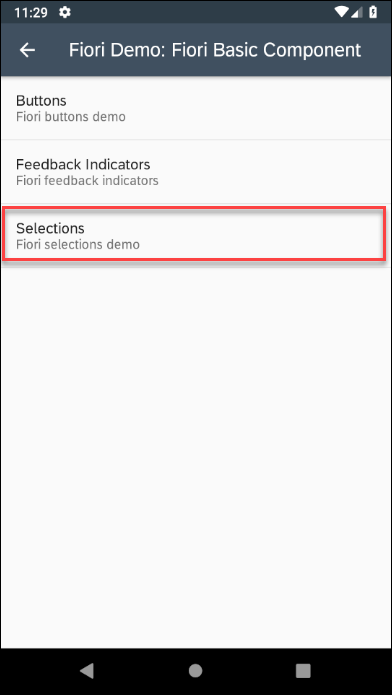
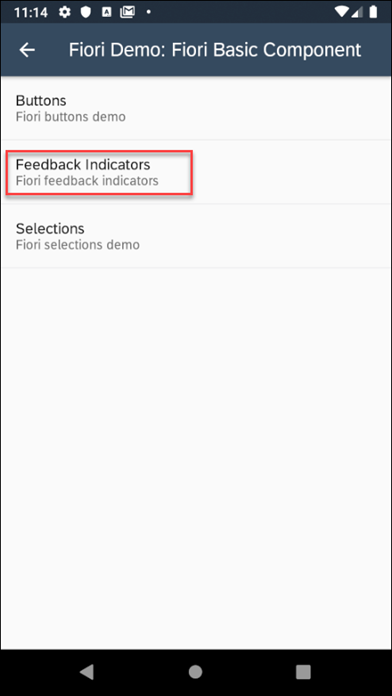
Update to reflect the 2.1.1 release of the SAP Cloud Platform SDK for Android

diff --git a/README.md b/README.md
@@ -4,13 +4,12 @@
 
 This application demonstrates the available components in the Fiori UI library.  The app is intended to provide an example implementation of each control, so that users can take the samples and expand their own applications to use the Fiori library.
 
-If you are new to the SAP Cloud Platform SDK for Android, [SAP Cloud Platform SDK for Android Learning Journey](https://help.sap.com/doc/221f8f84afef43d29ad37ef2af0c4adf/HP_2.0/en-US/747d6d2ea0534ba99612920c7402631a.html) and the [Step by Step with the SAP Cloud Platform SDK for Android](https://blogs.sap.com/2018/10/15/step-by-step-with-the-sap-cloud-platform-sdk-for-android-part-1/) series is a great place to start.
+If you are new to the SAP Cloud Platform SDK for Android, [Get Started with SAP Cloud Platform SDK for Android](https://developers.sap.com/mission.sdk-android-get-started.html) and the [Step by Step with the SAP Cloud Platform SDK for Android](https://blogs.sap.com/2018/10/15/step-by-step-with-the-sap-cloud-platform-sdk-for-android-part-1/) series is a great place to start.
+
 
 ## The Finished Product
 
 The app lists the available Fiori components.
-
-![The finished application](images/app-home-screen.png)
 
 Tapping a component type brings the user to more options related to that specific control.
 
@@ -18,22 +17,22 @@ Tapping a component type brings the user to more options related to that specifi
 
 ![Tapping "Selections"](images/selections-tap.png)
 
-![Selections](images/selections.png)
+![Indicators](images/indicators.png)
 
 ## Requirements
 
-* [Android Studio](https://developer.android.com/studio/index.html) version 3.3.1
-* [SAP Cloud Platform SDK for Android from Trial Downloads](https://www.sap.com/developer/trials-downloads/additional-downloads/sap-cloud-platform-sdk-for-android-15508.html) or [SAP Cloud Platform SDK for Android from Software Downloads](https://launchpad.support.sap.com/#/softwarecenter/template/products/_APP=00200682500000001943&_EVENT=NEXT&HEADER=Y&FUNCTIONBAR=Y&EVENT=TREE&NE=NAVIGATE&ENR=73555000100800001281&V=MAINT&TA=ACTUAL/SAP%20CP%20SDK%20FOR%20AND) version 2.0
+* [Android Studio](https://developer.android.com/studio/index.html) version 3.4
+* [SAP Cloud Platform SDK for Android from Trial Downloads](https://www.sap.com/developer/trials-downloads/additional-downloads/sap-cloud-platform-sdk-for-android-15508.html) or [SAP Cloud Platform SDK for Android from Software Downloads](https://launchpad.support.sap.com/#/softwarecenter/template/products/_APP=00200682500000001943&_EVENT=NEXT&HEADER=Y&FUNCTIONBAR=Y&EVENT=TREE&NE=NAVIGATE&ENR=73555000100800001281&V=MAINT&TA=ACTUAL/SAP%20CP%20SDK%20FOR%20AND) version 2.1.1
 
 The blog [Step by Step with the SAP Cloud Platform SDK for Android](https://blogs.sap.com/2018/10/15/step-by-step-with-the-sap-cloud-platform-sdk-for-android-part-1/) contains additional details on how to setup and install the SDK.
 
-There is extensive documentation at [SAP Experience](https://experience.sap.com/fiori-design-android/explore/) and [Fiori Development](https://help.sap.com/doc/c2d571df73104f72b9f1b73e06c5609a/Latest/en-US/docs/fioriui/fiori_ui_overview.html).
+There is extensive documentation at [Fiori for Android Design Guidelines](https://experience.sap.com/fiori-design-android/explore/) and [Fiori Development](https://help.sap.com/doc/c2d571df73104f72b9f1b73e06c5609a/Latest/en-US/docs/fioriui/fiori_ui_overview.html).
 
 ## Configuration
 
 Open the project in Android Studio.
 
-To successfully run the application, the `sdkVersion` variable in the `gradle.properties` file needs to be set correctly. Depending on which version of the SDK you have installed (ex. `2.0.0`), change the variable as shown in the screenshot below.
+To successfully run the application, the `sdkVersion` variable in the `gradle.properties` file needs to be set correctly. Depending on which version of the SDK you have installed (ex. `2.1.1`), change the variable as shown in the screenshot below.
 
 ![sdkVersion variable in gradle.properties](images/sdk-version-gradle-property.png)
 
